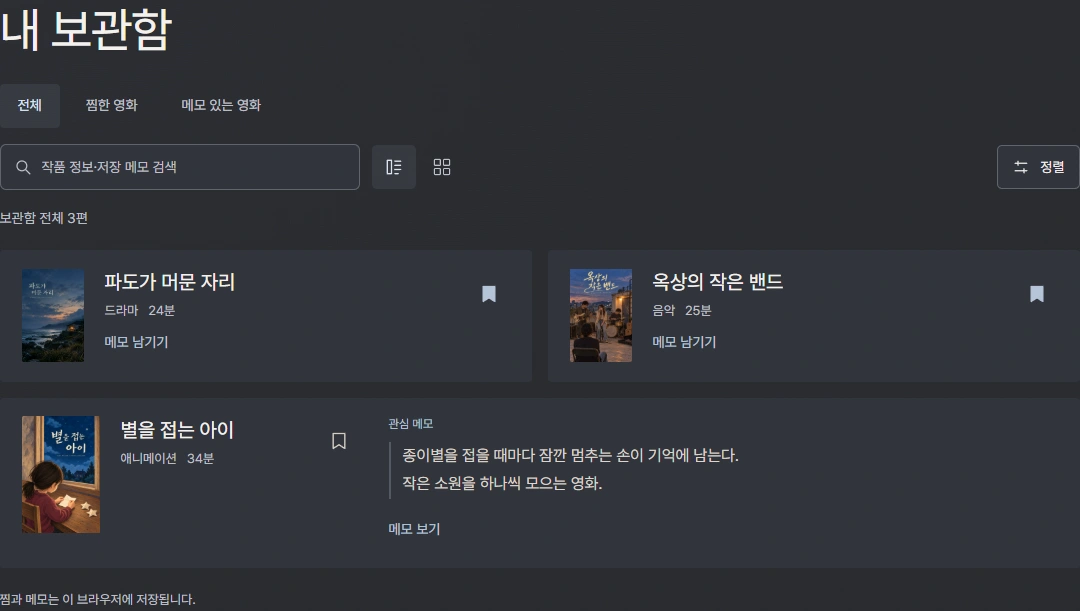
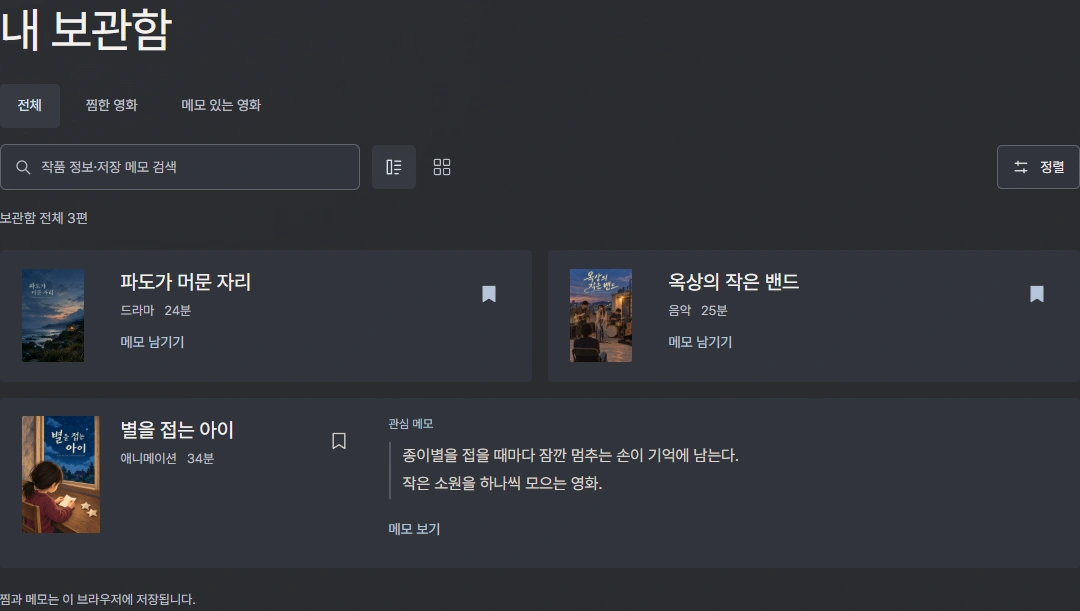
잔상관: 보관함 카드 제목 시작선 통일

Changed region(s): [[0.0917, 0.4354, 0.2444, 0.5908], [0.6111, 0.4354, 0.7333, 0.5908]]

diff --git a/lecture1/jansang-cinema/css/style.css b/lecture1/jansang-cinema/css/style.css
@@ -2029,7 +2029,7 @@ body[data-view="browse"] .film-grid { gap: 24px; }
   .catalog:not(.catalog--single) .library-reading .film-card { grid-column: 1/-1; }
   .catalog:not(.catalog--single) .library-reading .film-card[data-reading-span="half"] {
     grid-column: auto;
-    grid-template-columns: 64px minmax(0,1fr);
+    grid-template-columns: 80px minmax(0,1fr);
     gap: 20px;
     height: 100%;
   }

diff --git a/lecture1/jansang-cinema/index.html b/lecture1/jansang-cinema/index.html
@@ -63,7 +63,7 @@
       href="assets/bluehour-cover-v72.webp"
       rel="preload"
     />
-    <link href="css/style.css?v=af3b86ccd53a" rel="stylesheet" />
+    <link href="css/style.css?v=ffc63c87511e" rel="stylesheet" />
     <script defer="" src="js/main.js?v=9ba55f7fc4eb"></script>
   </head>
   <body>
